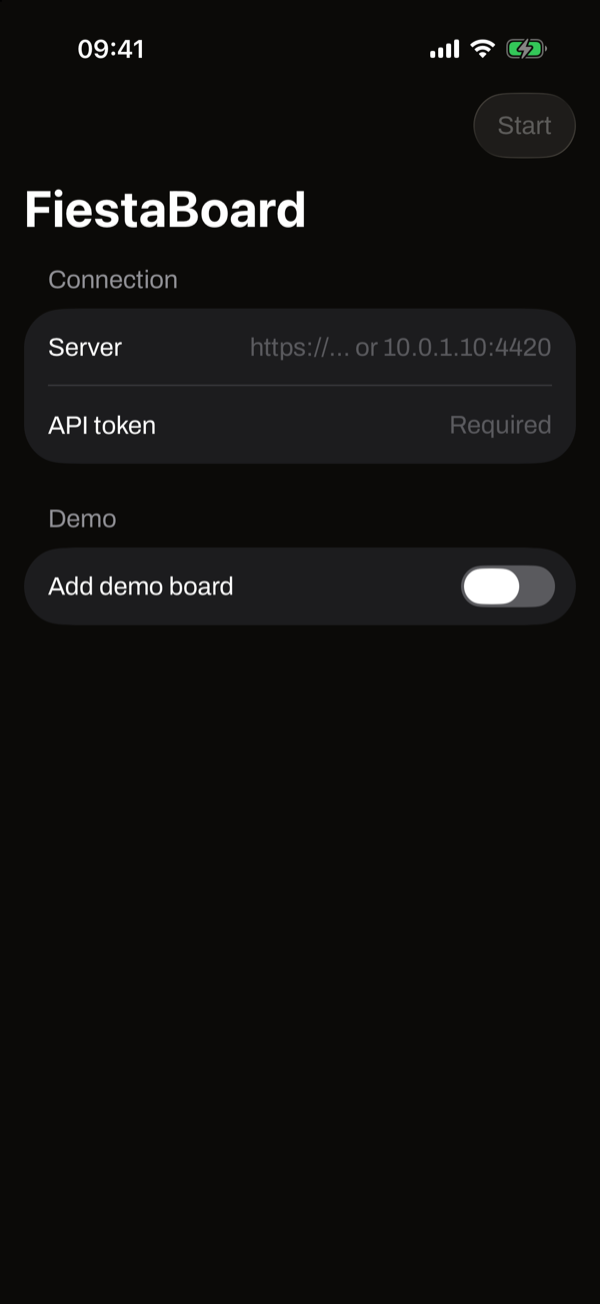
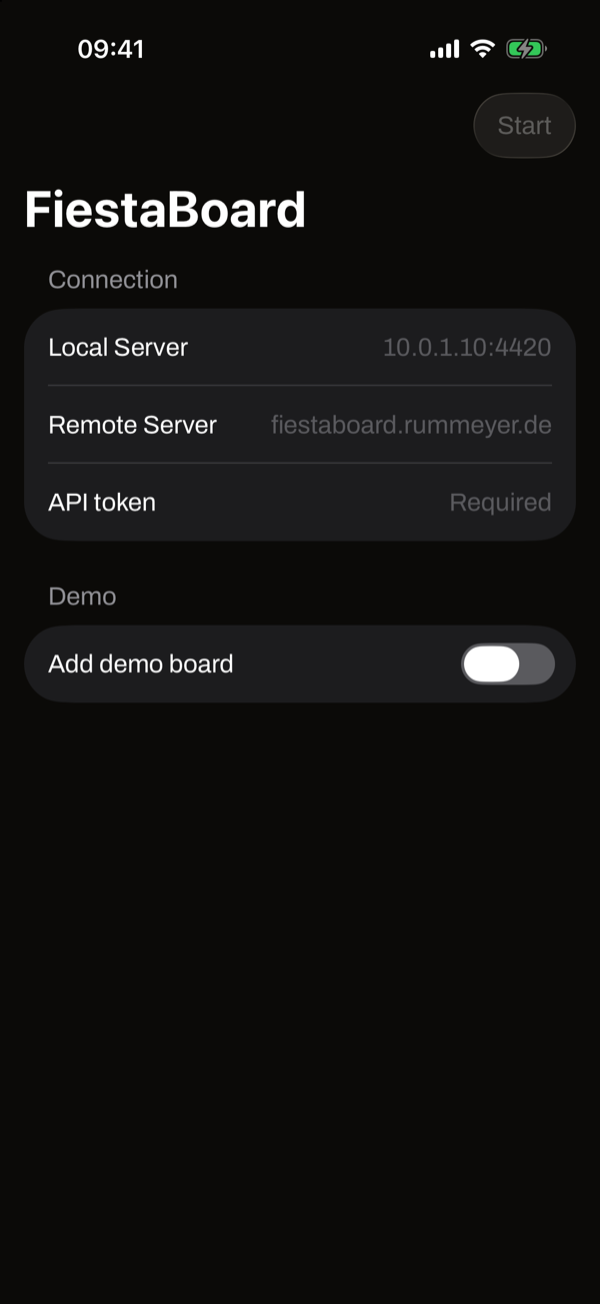
Local Server and Remote Server: FiestaBoard at home and from anywhere, the other tried when one cannot be reached
The one that answered last is asked first; a read goes to the other after
any failure to reach, a message only when it cannot have arrived. An
address from before that is a home one becomes the local server.

Claude-Session: https://claude.ai/code/session_01FXXeyGX9nkbXjdAycGNCsJ

diff --git a/FiestaBoard/SettingsView.swift b/FiestaBoard/SettingsView.swift
@@ -11,6 +11,7 @@ struct SettingsView: View {
     @Environment(TipJar.self) private var tips
     @Environment(\.dismiss) private var dismiss
     @State private var address = ""
+    @State private var localAddress = ""
     @State private var token = ""
     @State private var demoBoard = false
     @State private var looks: [String: BoardLook] = [:]
@@ -19,11 +20,11 @@ struct SettingsView: View {
 
     /// Something of FiestaBoard filled in, to be tried; nothing, for the demo board alone.
     private var withFiestaBoard: Bool {
-        !address.trimmingCharacters(in: .whitespaces).isEmpty || !token.trimmingCharacters(in: .whitespaces).isEmpty
+        [localAddress, address, token].contains { !$0.trimmingCharacters(in: .whitespaces).isEmpty }
     }
 
     private var canSave: Bool {
-        withFiestaBoard ? !address.isEmpty && !token.isEmpty : demoBoard
+        withFiestaBoard ? (!localAddress.isEmpty || !address.isEmpty) && !token.isEmpty : demoBoard
     }
 
     var body: some View {
@@ -32,14 +33,28 @@ struct SettingsView: View {
             Section {
                 // As iOS's own forms have it: the label on the left, what is typed on the right,
                 // in one line however long the address — it scrolls in its field rather than going below.
+                // One or both: at home the local server, from anywhere the remote one.
                 HStack(spacing: 16) {
-                    Text("Server").fixedSize()
-                    TextField("https://… or 10.0.1.10:4420", text: $address)
-                        .keyboardType(.URL)
-                        .textContentType(.URL)
-                        .textInputAutocapitalization(.never)
-                        .autocorrectionDisabled()
-                        .multilineTextAlignment(.trailing)
+                    Text("Local Server").fixedSize()
+                    TextField(text: $localAddress) {
+                        Text(verbatim: "10.0.1.10:4420")
+                    }
+                    .keyboardType(.URL)
+                    .textContentType(.URL)
+                    .textInputAutocapitalization(.never)
+                    .autocorrectionDisabled()
+                    .multilineTextAlignment(.trailing)
+                }
+                HStack(spacing: 16) {
+                    Text("Remote Server").fixedSize()
+                    TextField(text: $address) {
+                        Text(verbatim: "fiestaboard.rummeyer.de")
+                    }
+                    .keyboardType(.URL)
+                    .textContentType(.URL)
+                    .textInputAutocapitalization(.never)
+                    .autocorrectionDisabled()
+                    .multilineTextAlignment(.trailing)
                 }
                 HStack(spacing: 16) {
                     Text("API token").fixedSize()
@@ -117,6 +132,7 @@ struct SettingsView: View {
         }
         .onAppear {
             address = settings.address
+            localAddress = settings.localAddress
             token = settings.token
             demoBoard = settings.demoBoard
             looks = settings.looks
@@ -155,11 +171,11 @@ struct SettingsView: View {
         }
     }
 
-    /// FiestaBoard kept only once it has answered with this token; nothing of it, for the demo board alone.
+    /// FiestaBoard kept only once it has answered with this token, at one of its addresses; nothing of it, for the demo board alone.
     private func save() {
         problem = nil
         guard withFiestaBoard else {
-            settings.save(address: "", token: "")
+            settings.save(local: "", remote: "", token: "")
             settings.demoBoard = demoBoard
             settings.looks = looks
             close()
@@ -169,9 +185,12 @@ struct SettingsView: View {
         Task {
             defer { checking = false }
             do {
-                let api = try FiestaBoardAPI(address: address, token: token)
-                _ = try await api.boards()
-                settings.save(address: address, token: token)
+                // Kept once one of them answers: at home the local one, away the remote one.
+                guard let servers = try FiestaBoardServers(local: localAddress, remote: address, token: token) else {
+                    throw APIError.badAddress
+                }
+                _ = try await servers.boards()
+                settings.save(local: localAddress, remote: address, token: token)
                 settings.demoBoard = demoBoard
                 settings.looks = looks
                 close()

diff --git a/FiestaBoard/Servers.swift b/FiestaBoard/Servers.swift
@@ -1,0 +1,99 @@
+import Foundation
+
+/// FiestaBoard at two addresses: on the home network, and from anywhere. A
+/// router seldom lets a phone at home reach its own public address, and the
+/// home address is out of reach away from home — so a request goes to the
+/// address that answered last, and to the other when that one cannot be
+/// reached at all. An answer, even a refusal, counts as reached.
+struct FiestaBoardServers: BoardService {
+    /// Local first, then remote; one of them at least.
+    let servers: [FiestaBoardAPI]
+
+    /// From what was typed in; an address left empty is not there. Nil when neither is.
+    init?(local: String, remote: String, token: String) throws {
+        servers = try [local, remote]
+            .filter { !$0.trimmingCharacters(in: .whitespacesAndNewlines).isEmpty }
+            .map { try FiestaBoardAPI(address: $0, token: token) }
+        if servers.isEmpty {
+            return nil
+        }
+    }
+
+    func boards() async throws -> [BoardSummary] {
+        try await reach(again: true) { try await $0.boards() }
+    }
+
+    func board(_ id: String) async throws -> BoardDetail {
+        try await reach(again: true) { try await $0.board(id) }
+    }
+
+    func send(_ text: String, to board: String, minutes: Int?) async throws -> MessageResponse {
+        try await reach(again: false) { try await $0.send(text, to: board, minutes: minutes) }
+    }
+
+    func send(characters: [[Int]], to board: String, minutes: Int?) async throws -> MessageResponse {
+        try await reach(again: false) { try await $0.send(characters: characters, to: board, minutes: minutes) }
+    }
+
+    func clear(_ board: String) async throws -> MessageResponse {
+        try await reach(again: false) { try await $0.clear(board) }
+    }
+
+    /// Tries the servers, the one that answered last first. `again`: whether the request may go
+    /// to the other after one that may have arrived — a read may, a message is not sent twice.
+    private func reach<T: Sendable>(again: Bool, _ request: @Sendable (FiestaBoardAPI) async throws -> T) async throws -> T {
+        let ordered = await LastAnswered.shared.order(servers)
+        var failure: Error = APIError.badAddress
+        for (index, server) in ordered.enumerated() {
+            let last = index == ordered.count - 1
+            // Not the last to try: soon given up, so that the other is not waited for long.
+            var attempt = server
+            attempt.timeout = last ? 20 : 6
+            do {
+                let answer = try await request(attempt)
+                await LastAnswered.shared.answered(server)
+                return answer
+            } catch let error as URLError where Self.unreached(error, again: again) && !last {
+                failure = error
+            } catch {
+                throw error
+            }
+        }
+        throw failure
+    }
+
+    /// The server was not reached: no connection, no name, no secure channel; and with
+    /// `again`, also one that went silent, which a read can be asked of the other again.
+    private static func unreached(_ error: URLError, again: Bool) -> Bool {
+        switch error.code {
+        case .cannotConnectToHost, .cannotFindHost, .dnsLookupFailed, .notConnectedToInternet,
+             .secureConnectionFailed, .serverCertificateUntrusted, .serverCertificateHasBadDate,
+             .serverCertificateNotYetValid, .serverCertificateHasUnknownRoot, .internationalRoamingOff:
+            true
+        case .timedOut, .networkConnectionLost:
+            again
+        default:
+            false
+        }
+    }
+}
+
+/// Which address answered last, for as long as the app runs.
+private actor LastAnswered {
+    static let shared = LastAnswered()
+
+    private var base: URL?
+
+    func order(_ servers: [FiestaBoardAPI]) -> [FiestaBoardAPI] {
+        guard let base, let index = servers.firstIndex(where: { $0.base == base }) else {
+            return servers
+        }
+        var ordered = servers
+        ordered.insert(ordered.remove(at: index), at: 0)
+        return ordered
+    }
+
+    func answered(_ server: FiestaBoardAPI) {
+        base = server.base
+    }
+}

diff --git a/FiestaBoard/Settings.swift b/FiestaBoard/Settings.swift
@@ -2,17 +2,22 @@ import Foundation
 import Observation
 import Security
 
-/// Where FiestaBoard is and the token for it — the address in the defaults,
+/// Where FiestaBoard is and the token for it — its addresses in the defaults,
 /// the token in the Keychain, as it opens everything the API can do — and
 /// whether the demo board is there beside its boards, or instead of them.
 @MainActor @Observable
 final class Settings {
+    /// The remote server's: once the only address, which may have been the local one.
     private static let addressKey = "serverAddress"
+    private static let localKey = "localServerAddress"
     private static let tokenAccount = "apiToken"
     private static let demoKey = "demoBoard"
     private static let looksKey = "boardLooks"
 
+    /// FiestaBoard from anywhere, over HTTPS.
     var address: String
+    /// FiestaBoard on the home network: tried when the remote server cannot be reached.
+    var localAddress: String
     var token: String
     /// The board simulated in the app, beside FiestaBoard's or alone.
     var demoBoard: Bool {
@@ -36,11 +41,20 @@ final class Settings {
     init() {
         // The demo shows none of the real address or token.
         address = Demo.on ? "" : UserDefaults.standard.string(forKey: Self.addressKey) ?? ""
+        localAddress = Demo.on ? "" : UserDefaults.standard.string(forKey: Self.localKey) ?? ""
         token = Demo.on ? "" : Keychain.read(Self.tokenAccount) ?? ""
         // The sample screenshots are on the demo board alone, but their first start shows it off.
         demoBoard = Demo.on ? !Demo.settings : UserDefaults.standard.bool(forKey: Self.demoKey)
         looks = Demo.on ? [:] : UserDefaults.standard.data(forKey: Self.looksKey)
             .flatMap { try? JSONDecoder().decode([String: BoardLook].self, from: $0) } ?? [:]
+        // The one address of before, at home: the local server's now.
+        if localAddress.isEmpty, let host = (try? FiestaBoardAPI(address: address, token: ""))?.base.host(percentEncoded: false),
+           FiestaBoardAPI.isLocal(host) {
+            localAddress = address
+            address = ""
+            UserDefaults.standard.set(localAddress, forKey: Self.localKey)
+            UserDefaults.standard.set(address, forKey: Self.addressKey)
+        }
     }
 
     /// A FiestaBoard to talk to: an address that will do, and a token.
@@ -48,8 +62,8 @@ final class Settings {
         fiestaBoard != nil
     }
 
-    var fiestaBoard: FiestaBoardAPI? {
-        token.isEmpty ? nil : try? FiestaBoardAPI(address: address, token: token)
+    var fiestaBoard: FiestaBoardServers? {
+        token.isEmpty ? nil : (try? FiestaBoardServers(local: localAddress, remote: address, token: token)) ?? nil
     }
 
     /// Something to show: FiestaBoard's boards, the demo board, or both.
@@ -71,10 +85,12 @@ final class Settings {
         return fiestaBoard
     }
 
-    func save(address: String, token: String) {
-        self.address = address.trimmingCharacters(in: .whitespacesAndNewlines)
+    func save(local: String, remote: String, token: String) {
+        localAddress = local.trimmingCharacters(in: .whitespacesAndNewlines)
+        address = remote.trimmingCharacters(in: .whitespacesAndNewlines)
         self.token = token.trimmingCharacters(in: .whitespacesAndNewlines)
-        UserDefaults.standard.set(self.address, forKey: Self.addressKey)
+        UserDefaults.standard.set(localAddress, forKey: Self.localKey)
+        UserDefaults.standard.set(address, forKey: Self.addressKey)
         Keychain.write(self.token, for: Self.tokenAccount)
     }
 }

diff --git a/FiestaBoard/API.swift b/FiestaBoard/API.swift
@@ -70,6 +70,8 @@ enum APIError: LocalizedError {
 struct FiestaBoardAPI: Sendable {
     let base: URL
     let token: String
+    /// Seconds to wait for an answer.
+    var timeout: TimeInterval = 20
 
     /// From what was typed in, with or without a trailing /api: https anywhere,
     /// http only to an address on the home network or reached through a VPN, as
@@ -174,7 +176,7 @@ struct FiestaBoardAPI: Sendable {
     private func call<T: Decodable>(_ method: String, _ path: String, body: Body? = nil) async throws -> T {
         var request = URLRequest(url: base.appending(path: path))
         request.httpMethod = method
-        request.timeoutInterval = 20
+        request.timeoutInterval = timeout
         request.setValue("application/json", forHTTPHeaderField: "Accept")
         if !token.isEmpty {
             request.setValue("Bearer \(token)", forHTTPHeaderField: "Authorization")

diff --git a/FiestaBoard/HomeView.swift b/FiestaBoard/HomeView.swift
@@ -105,7 +105,7 @@ struct HomeView: View {
             .environment(settings)
         }
         // Read again now and every so often while open; stopped in the background.
-        .task(id: "\(boardID)|\(scenePhase == .active)|\(settings.address)|\(settings.token)|\(settings.demoBoard)") {
+        .task(id: "\(boardID)|\(scenePhase == .active)|\(settings.address)|\(settings.localAddress)|\(settings.token)|\(settings.demoBoard)") {
             guard scenePhase == .active else {
                 return
             }

diff --git a/README.md b/README.md
@@ -36,7 +36,7 @@
   &nbsp;
   <picture>
     <source media="(prefers-color-scheme: dark)" srcset="docs/screenshots/settings-dark.png">
-    <img src="docs/screenshots/settings-light.png" alt="The first start: Connection, with FiestaBoard's address and the API token, and Demo, to add the demo board" width="200">
+    <img src="docs/screenshots/settings-light.png" alt="The first start: Connection, with the local server, the remote server and the API token, and Demo, to add the demo board" width="200">
   </picture>
 </p>
 
@@ -79,9 +79,11 @@ It talks to nothing but your FiestaBoard, over its public API (`/api/v1`), with 
 
 The app takes an `https://` address from anywhere, and a plain `http://` one only where it cannot be reached from the internet: 10.x, 172.16–31.x, 192.168.x, 100.64–127.x (Tailscale's range), a `.local` name, a name without a dot, or a private IPv6 address. Typed without `http://` or `https://`, an address gets the one that fits.
 
+Settings has two: **Local Server**, FiestaBoard's address at home, and **Remote Server**, its address from anywhere. One is enough; with both, the app asks the one that answered last and, when that one cannot be reached, the other — at home the local server, away the remote one, with nothing to switch. A router seldom lets a phone at home reach its own public address, so the remote server alone often does not work on the home Wi‑Fi.
+
 ### At home
 
-FiestaBoard's address on your network, such as `10.0.1.10:4420`. The first time, iOS asks whether the app may use the local network; allow it.
+As **Local Server**, FiestaBoard's address on your network, such as `10.0.1.10:4420`. The first time, iOS asks whether the app may use the local network; allow it.
 
 ### Through a VPN
 

diff --git a/CHANGELOG.md b/CHANGELOG.md
@@ -8,6 +8,10 @@ adheres to [semantic versioning](https://semver.org/spec/v2.0.0.html).
 
 ### Added
 
+- Local Server and Remote Server in Settings: FiestaBoard at home and from
+  anywhere, the one that answered last asked first, the other when it
+  cannot be reached. An address from before that is a home one becomes the
+  local server.
 - Tips, in Settings under Donation: two coffees through In-App Purchase,
   and a StoreKit configuration to try them from Xcode.
 - Buy Me a Coffee in the README.
